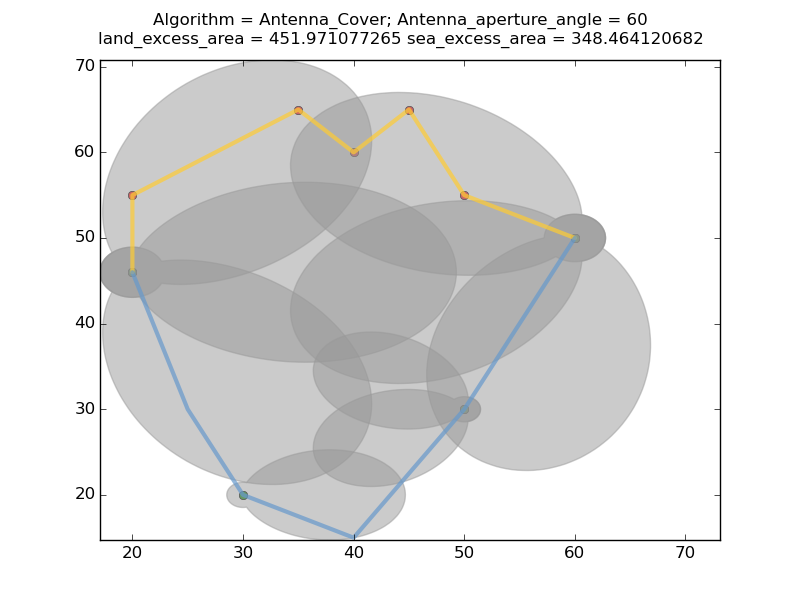
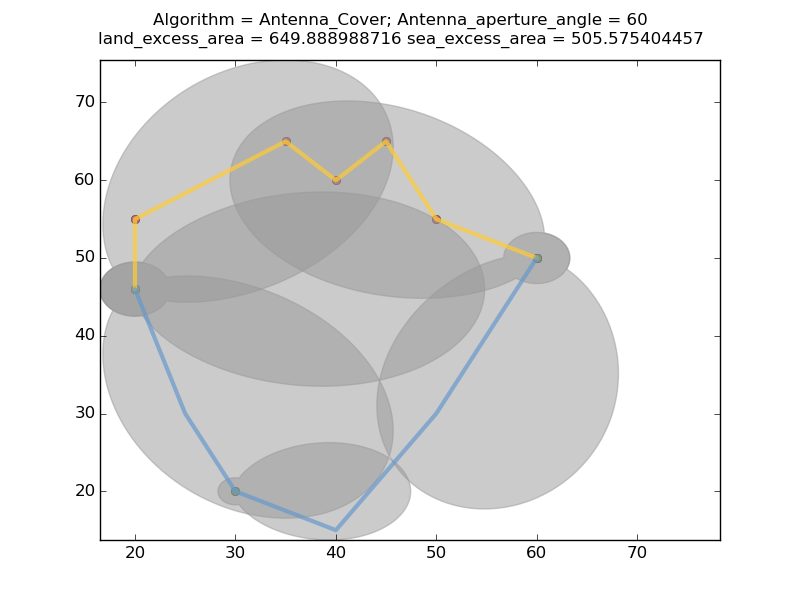
Added new simannealer (works better for this problem).

diff --git a/circlecover/simannealer.py b/circlecover/simannealer.py
@@ -1,3 +1,4 @@
+from simanneal import Annealer
 from shapely.geometry import Polygon
 from shapely.geometry import Point
 import antennacover
@@ -6,48 +7,30 @@ import math
 import pdb
 import random
 import copy
-from scipy.optimize import basinhopping
 
+class SimAnneal(Annealer):
 
-class Annealer:
-
-    def covers(self,angles):
+    def covers(self,cover_polygons):
         """ boolean to determine whether the collection of points is covered by the given set of lobes. 
             If this returns True then a valid cover has been found. """
         not_covered_count = 0
-        
         for point in self.points_to_check:
             covered = False
-            for i in range(0,len(self.cover_polygons)):
-                if self.cover_polygons[i].contains(point):
+            for i in range(0,len(cover_polygons)):
+                if cover_polygons[i].contains(point):
                     covered = True
                     break
             if not covered:
                 not_covered_count = not_covered_count + 1
-                
+
         ratio = float(not_covered_count) / float(len(self.points_to_check))
-        print "ratio = ",ratio
         if float(not_covered_count) / float(len(self.points_to_check)) < .005:
             return True
         else:
             return False
 
 
-    def acceptTest(self,**kwargs):
-        """ Return true if our solution is valid and false otherwise. """
-        angles = kwargs["x_new"]
-        if  self.covers(angles) :
-            self.cover_polygons = excessarea.generate_antenna_cover_polygons(self.indexes,angles,self.centers,self.detection_coverage)
-            self.angles = angles
-            return True
-        else:
-            old_angles = kwargs["x_old"]
-            self.cover_polygons = excessarea.generate_antenna_cover_polygons(self.indexes,old_angles,self.centers,self.detection_coverage)
-            return False
-
-            
-
-    def cost_function1(self,angles):
+    def energy(self):
         cover_polygons = self.cover_polygons
         union = cover_polygons[0]
         for i in range(1,len(cover_polygons)):
@@ -57,7 +40,7 @@ class Annealer:
         print "cost = ",cost
         return cost
                 
-    def cost_function2(self,angles):
+    def energy2(self,angles):
         intersection_area = 0
         cover_polygons = self.cover_polygons
         for i in range(0,len(cover_polygons)):
@@ -69,21 +52,36 @@ class Annealer:
         print "cost = ",cost
         return cost
 
-    def takeStep(self,angles):
-        index = random.randint(0,len(self.indexes) - 1)
-        sign = -1 if random.randint(0,1) == 0 else 1
-        delta_angle = math.pi/180*2*sign
-        new_angle = delta_angle + self.angles[index]
-        new_angles = copy.copy(self.angles)
-        new_angles[index] = new_angle
-        self.angles = new_angles
-        self.cover_polygons = excessarea.generate_antenna_cover_polygons(self.indexes,new_angles,self.centers,self.detection_coverage)
-        return new_angles
+    def move(self):
+        while True:
+            index = random.randint(0,len(self.indexes) - 1)
+            sign = -1 if random.randint(0,1) == 0 else 1
+            delta_angle = 2*math.pi/180*sign
+            new_angle = delta_angle + self.state[index]
+            new_angles = copy.copy(self.state)
+            new_angles[index] = new_angle
+            cover_polygons = excessarea.generate_antenna_cover_polygons(self.indexes,new_angles,self.centers,self.detection_coverage)
+            if (self.covers(cover_polygons)):
+                self.state = new_angles
+                self.cover_polygons = cover_polygons
+                break
 
 
-    def anneal(self):
-        basinhopping(self.cost_function1,self.angles,accept_test = self.acceptTest,take_step = self.takeStep)
-        return zip(self.centers,self.indexes,self.angles)
+    def get_result(self):     
+        cover_polygons = excessarea.generate_antenna_cover_polygons(self.indexes,self.state,self.centers,self.detection_coverage)
+        # Now remove a polygon at a time and see if the cover criterion is met.
+        indexes_to_remove = []
+        for i in range(0,len(cover_polygons)):
+            newcover = [cover_polygons[k] for k in range(0,len(cover_polygons)) if k != i and k not in indexes_to_remove]
+            if self.covers(newcover):
+                indexes_to_remove.append(i)
+            
+            
+        print "indexes_to_remove ", indexes_to_remove
+        centers = [self.centers[i] for i in range(0,len(self.centers)) if i not in indexes_to_remove]
+        indexes = [self.indexes[i] for i in range(0,len(self.indexes)) if  i not in indexes_to_remove]
+        angles =  [self.state[i] for i in range(0,len(self.state)) if i not in indexes_to_remove]
+        return zip(centers,indexes,angles)
 
 
     def __init__(self,interference_contour, possible_centers, detection_coverage_file,cover):
@@ -91,11 +89,11 @@ class Annealer:
         self.possible_centers = possible_centers
         self.centers = [c[0] for c in cover   ]
         self.indexes = [c[1] for c in cover   ]
-        self.angles =  [c[2] for c in cover  ]
+        self.state =  [c[2] for c in cover  ]
         # load the detection coverage file.
         self.detection_coverage = antennacover.read_detection_coverage(detection_coverage_file)
         # the polygons representing the antenna shapes (rotated and translated)
-        self.cover_polygons = excessarea.generate_antenna_cover_polygons(self.indexes,self.angles,self.centers,self.detection_coverage)
+        self.cover_polygons = excessarea.generate_antenna_cover_polygons(self.indexes,self.state,self.centers,self.detection_coverage)
         # The bounding polygon consisting of the shore and the interference contour.
         self.bounding_polygon = excessarea.generate_bounding_polygon(possible_centers,interference_contour)
         # Take the union of these shapes
@@ -111,5 +109,6 @@ class Annealer:
                                     for j in range(0,ndivisions) 
                                         if self.bounding_polygon.contains(Point (minx+i*deltax, miny+j*deltay))]
         
+        self.steps = 500
 
         

diff --git a/circlecover/antennacover.py b/circlecover/antennacover.py
@@ -177,7 +177,7 @@ def find_antenna_overlay_for_points(points_to_cover, center, radius, detection_c
     radius = furthest_point_tuple[1]
     min_angle = min([angle(center,p) for p in convex_hull])
     # note - second element of tuple is None. (Not a syntax error)
-    index = bisect.bisect_left(detection_coverage,(radius*1.2,))
+    index = bisect.bisect_left(detection_coverage,(radius*1.4,))
     if index >= len(detection_coverage):
         print("radius " + str(radius*1.2))
         print("max_detection_coverage " + str(detection_coverage[len(detection_coverage) -1][0]))
@@ -274,25 +274,46 @@ def min_antenna_area_cover_greedy(possible_centers, interference_contour, antenn
 
     """
 
-    def intersect_circle_with_points(circle,point_set):
-        """ Find the subset of points within 1.2 radius of the circle and return the intersection and difference"""
-        newcircle = ccle.Circle(circle.get_center(), circle.get_radius()*1.2)
-        points_to_include = [p for p in point_set if newcircle.inside(p)]
-        for p in points_to_include:
-            point_set.remove(p)
-        return points_to_include,point_set
-
-    
         
 
     centers = copy.copy(possible_centers)
     antenna_cover_patterns = read_detection_coverage(antenna_cover_file)
     # Find the min circle cover.
-    cover,covered_point_sets = circlecover.min_area_cover_greedy(centers,interference_contour,min_center_distance)
+    cover,covered_points = circlecover.min_area_cover_greedy(centers,interference_contour,min_center_distance)
     
-    antenna_coverage = []
+    bounding_polygon = excessarea.generate_bounding_polygon(centers,interference_contour)
+    minx,miny,maxx,maxy = bounding_polygon.bounds
+    ndivisions = 100
+    deltax = float(maxx - minx) / float(ndivisions)
+    deltay = float(maxy - miny) / float(ndivisions)
+    points_to_check = [(minx+i*deltax, miny+j*deltay) 
+                            for i in range(0,ndivisions) 
+                                for j in range(0,ndivisions) 
+                                    if bounding_polygon.contains(Point(minx+i*deltax, miny+j*deltay))]
+        
+    num_points = len(points_to_check)
+    # we want to eliminate lobes that have a very small number of points included
+    # to eliminate the noise. If an antenna lobe covers less than tolerance number
+    # of points, then we can eliminate it. We pick it to be 1/10 percent of the 
+    # number of grid points (arbitrarily -- should be passed in as a parameter).
+    tolerance = .005*num_points
+    print "tolerance ",tolerance , " ", num_points
+    
+    covered_point_sets = []
+    for i in range(0,len(cover)):
+        cp = []
+        points_to_remove = []
+        for point in points_to_check:
+            if cover[i].inside(point):
+                cp.append(point)
+                points_to_remove.append(point)
+        covered_point_sets.append(cp)
+        for p in points_to_remove:
+            points_to_check.remove(p)
+                
 
     antenna_lobe = namedtuple("AntennaLobeExtended",["center","index","angle","lobe","covered_points"])
+    antenna_coverage = []
     for i in range(0,len(cover)):
         points_to_cover = covered_point_sets[i]
         radius = cover[i].get_radius()
@@ -309,22 +330,15 @@ def min_antenna_area_cover_greedy(possible_centers, interference_contour, antenn
         points_covered = antenna_coverage[i].covered_points
         for j in range(i+1,len(antenna_coverage)):
             lobe = antenna_coverage[j].lobe
-            points_to_move = []
+            points_to_remove = []
             for p in points_covered:
                 if lobe.contains(Point(p)):
-                    points_to_move.append(p)
-            for p in points_to_move:
+                    points_to_remove.append(p)
+            for p in points_to_remove:
                 antenna_coverage[j].covered_points.append(p)
                 antenna_coverage[i].covered_points.remove(p)
 
 
-    # we want to eliminate lobes that have a very small number of points included
-    # to eliminate the noise. If an antenna lobe covers less than tolerance number
-    # of points, then we can eliminate it. We pick it to be 1/10 percent of the 
-    # number of grid points (arbitrarily -- should be passed in as a parameter).
-    tolerance = .005*sum([len(t.covered_points) for t in antenna_coverage])
-
-    print "tolerance ",tolerance
 
     # Now eliminate empty lobes.
     antenna_coverage.reverse()

diff --git a/circlecover/test/AntennaCoverTest.py b/circlecover/test/AntennaCoverTest.py
@@ -15,6 +15,7 @@ from circle import Circle
 import printcover
 import antennacover
 import annealer
+import simannealer
 import operator
 from shapely.geometry import Polygon
 from shapely.geometry import Point
@@ -227,8 +228,41 @@ class AntennaCoverTest(unittest.TestCase):
         possible_centers = [(20,46),(25,30),(30,20),(40,15),(50,30),(60,50)]
         min_ctr_dist = 0
         coverage_file = "DetectionCoverage_60deg.txt"
-        cover = antennacover.min_antenna_area_cover_greedy(possible_centers,interference_contour,"DetectionCoverage_60deg.txt",60,min_center_distance=min_ctr_dist)
-        annealr = annealer.Annealer(interference_contour, possible_centers, coverage_file,cover)
-        improved_cover = annealr.anneal()
+        testName = "Estuary"
+        cover = antennacover.min_antenna_area_cover_greedy(possible_centers,interference_contour,coverage_file,60,min_center_distance=min_ctr_dist)
+        printcover.printAntennaCover(testName, interference_contour, possible_centers, cover,coverage_file,60,min_ctr_dist)
+        annealr = simannealer.SimAnneal(interference_contour, possible_centers, coverage_file,cover)
+        annealr.anneal()
         testName = "EstuaryAnneal"
+        improved_cover = annealr.get_result()
         printcover.printAntennaCover(testName, interference_contour, possible_centers, improved_cover,"DetectionCoverage_60deg.txt",60,min_ctr_dist)
+
+    def testSFAnneal (self):
+        esc_loc_x = m_to_km([-2300850,-2297160,-2284680,-2283390,-2284800,-2289540,-2287620,-2287740,-2287620,-2291760,-2289540,-2283720,
+                                -2279730,-2254320,-2252430,-2253120,-2256900,-2273160,-2273970,-2273910])
+        esc_loc_y = m_to_km([1986840,1977120,1966620,1957680,1947570,1937730,1926720,1917720,1907880,1897830,1887360,1876560,
+                                1867620,1852470,1843620,1833720,1824660,1817640,1807710,1797930])
+        ship_loc_x = m_to_km([-2414875,-2401190,-2405002,-2406089,-2407670,-2402495,-2402056,-2400759,-2390693,-2394883,-2393517,
+                                -2394351,-2393072,-2396507,-2393492,-2394127,-2399780,-2396297,-2387368,-2387021])
+        ship_loc_y = m_to_km([2019979,2007266,2001267,1992909,1982826,1970152,1959565,1950068,1937330,1927338,1917048,1908072,
+                                1899767,1892623,1883306,1873335,1864772,1852304,1839577,1829662])
+
+        centers = []
+        for i in range(0,len(esc_loc_x)):
+            center = (esc_loc_x[i],esc_loc_y[i])
+            centers.append(center)
+        interference_contour = []
+        for i in range(0,len(ship_loc_x)):
+            p = (ship_loc_x[i],ship_loc_y[i])
+            interference_contour.append(p)
+
+        testName = "SanFrancisco"
+        min_ctr_dist = 60
+        coverage_file = "DetectionCoverage_60deg.txt"
+        cover = antennacover.min_antenna_area_cover_greedy(centers,interference_contour,coverage_file,60,min_center_distance = min_ctr_dist)
+        printcover.printAntennaCover(testName, interference_contour, centers, cover,coverage_file,60,min_ctr_dist)
+        testName = "SanFranciscoAnneal"
+        annealr = simannealer.SimAnneal(interference_contour, centers, coverage_file,cover)
+        annealr.anneal()
+        improved_cover = annealr.get_result()
+        printcover.printAntennaCover(testName, interference_contour, centers, improved_cover,"DetectionCoverage_60deg.txt",60,min_ctr_dist)

diff --git a/README.md b/README.md
@@ -81,26 +81,36 @@ antenna aperture angle but with different sensitivities. Determine the following
 
 Abstract problem statement:
 
-Given a set of M points on a plane where multi-antenna sensors can be centered and
-a set of N lines defining an interference contour, construct a polygon including the M points and N lines.
-Find the minimum area antenna cover for the polygon. That is
-find the azimuth angle and sensitivity of the antennas placed on a subset of the M points
-such that the area of the polygon to be covered is entirely covered and the 
-excess area of the cover is minimized. For example:
+Given a set of M points on a plane where multi-antenna sensors can
+be centered and a set of N lines defining an interference contour,
+construct a polygon including the M points and N lines.  Find the minimum
+area antenna cover for the polygon. That is find the azimuth angle and
+sensitivity of the antennas placed on a subset of the M points such
+that the area of the polygon to be covered is entirely covered and the
+excess area of the cover is minimized. 
+
+Here is an example of a test run:
 
 ![alt tag](figures/estuary_antenna_60.png)
 
-Note that each antenna has the same beam width (60 degrees in the diagram above). The covers are chosen from 
-a family of "concentric" coverage curves that are generated off line using an appropriate propagation model 
-(i.e. Free Space, Hata etc.) shown below:
+Note that each antenna has the same beam width (60 degrees in the diagram
+above). The covers are chosen from a family of "concentric" coverage
+curves that are generated off line using an appropriate propagation model
+(i.e. Free Space, Hata etc.) shown below is the pattern for free space
+propagation loss:
 
 ![alt tag](figures/DetectionCoverage_90deg.png)
 
+The antenna cover may be imporoved after minimizing the excess area and removing redundant lobes. This is achieved through 
+simulated annealing.  We allow a small amount of "slop"
+(e.g. .05% of area uncovered).The results are shown below (note that the area is not entirely covered):
 
-The target application for this code is ESC sensor placement and sensitivity
-tuning for 3.5 GHZ spectrum sharing.
+![alt tag](figures/estuaryanneal_antenna_60.png)
+
 
 A matlab wrapper for the main python functionality is included.
+The target application for this code is ESC sensor placement and sensitivity
+tuning for 3.5 GHZ spectrum sharing.
 
 
 ## Installing the code
